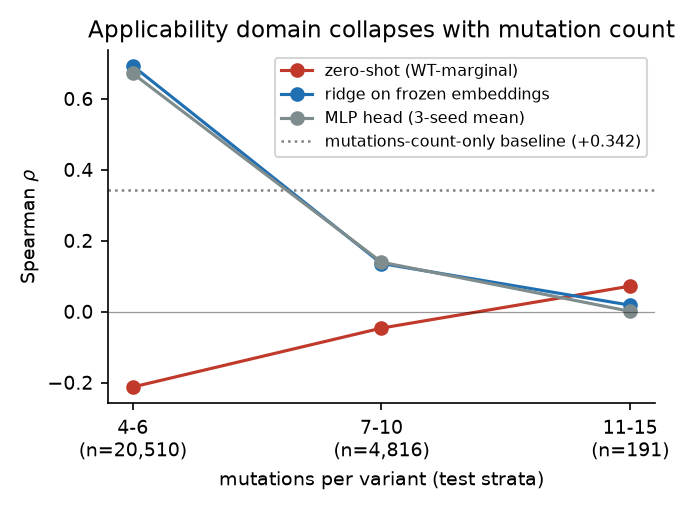
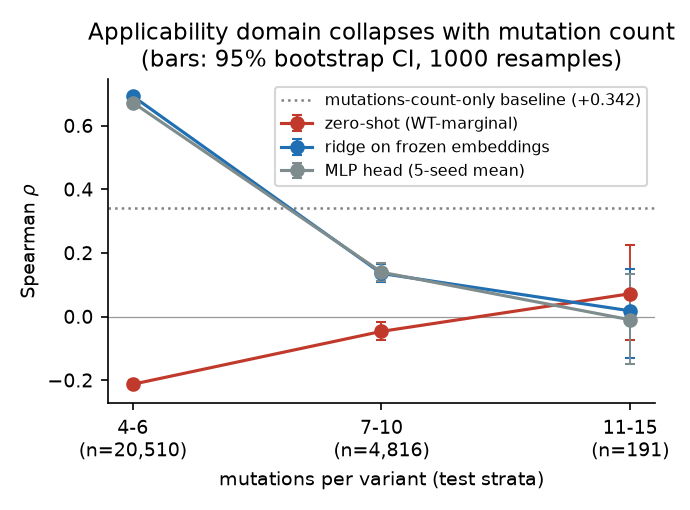
E2: 5 MLP seeds + per-stratum bootstrap CIs
- analyze.py: seeds 0-4 (mlp_mean3seed -> mlp_mean5seed, mean +0.6166);
  by_mutation_count rows gain zero_shot/ridge/mlp 95% bootstrap CIs;
  ci_protocol recorded in metrics.json and stated in report.md
- make_figures.py: fig2 draws CI error bars, legend says 5-seed mean
- README: strata row now shows CIs (11-15 ridge CI spans 0); seeds 0-2
  reproduce the old per-seed Spearman to 4 decimals

diff --git a/src/analyze.py b/src/analyze.py
@@ -8,7 +8,7 @@ Models compared on the TAPE fluorescence test split (25,517 variants, length 237
   null_nmut      predict -(number of mutations) -- "more mutations, less fluorescence"
   zero_shot      ESM2 WT-marginal log-likelihood ratio, no training at all
   ridge          linear head on frozen ESM2 mean-pooled embeddings
-  mlp            ~~~~ 2-layer head, 3 seeds ~~~~
+  mlp            ~~~~ 2-layer head, 5 seeds ~~~~
 
 No number here is hard-coded: every figure is computed from the arrays on disk.
 """
@@ -103,7 +103,10 @@ def main() -> None:
     te, Xte, zs_te = load("test")
     ytr, yva, yte = tr["log_fluor"].values, va["log_fluor"].values, te["log_fluor"].values
 
-    res: dict = {"n_train": len(tr), "n_valid": len(va), "n_test": len(te)}
+    res: dict = {"n_train": len(tr), "n_valid": len(va), "n_test": len(te),
+                 "ci_protocol": {"method": "bootstrap percentile 95% CI",
+                                 "n_boot": 1000, "rng_seed": 0,
+                                 "note": "same protocol for headline, subset and per-stratum CIs"}}
     print(f"train {len(tr)}  valid {len(va)}  test {len(te)}  dim={Xtr.shape[1]}")
 
     # ---- baselines ----------------------------------------------------------
@@ -126,8 +129,8 @@ def main() -> None:
     res["ridge_valid_spearman"] = round(float(r_valid), 4)
     score("ridge", model.predict(Xte), yte, res)
 
-    # ---- MLP head, 3 seeds --------------------------------------------------
-    seeds = [0, 1, 2]
+    # ---- MLP head, 5 seeds --------------------------------------------------
+    seeds = [0, 1, 2, 3, 4]
     preds, infos = [], []
     for s in seeds:
         p, info = mlp_head(Xtr, ytr, Xte, s)
@@ -135,30 +138,33 @@ def main() -> None:
         infos.append(info)
         score(f"mlp_seed{s}", p, yte, res)
     pm = np.mean(preds, 0)
-    score("mlp_mean3seed", pm, yte, res)
+    score("mlp_mean5seed", pm, yte, res)
     res["mlp_ensemble"] = {"seeds": seeds, "per_seed_spearman": [res[f"mlp_seed{s}"]["spearman"] for s in seeds],
                            "train_seconds": [i["seconds"] for i in infos],
                            "peak_gpu_MiB": [i["peak_gpu_MiB"] for i in infos]}
     spread = max(res[f"mlp_seed{s}"]["spearman"] for s in seeds) - min(res[f"mlp_seed{s}"]["spearman"] for s in seeds)
     res["mlp_ensemble"]["seed_spread"] = round(float(spread), 4)
 
-    # ---- where zero-shot fails: by mutation count --------------------------
+    # ---- where zero-shot fails: by mutation count, with per-stratum CIs -----
     bins = [(1, 1), (2, 3), (4, 6), (7, 10), (11, 15)]
+    ridge_te = model.predict(Xte)
     rows = []
     for lo, hi in bins:
         m = (te["num_mutations"] >= lo) & (te["num_mutations"] <= hi)
         if m.sum() < 30:
             continue
-        rows.append({
-            "mutations": f"{lo}-{hi}", "n": int(m.sum()),
-            "zero_shot": round(float(spearmanr(zs_te[m], yte[m]).statistic), 4),
-            "ridge": round(float(spearmanr(model.predict(Xte[m]), yte[m]).statistic), 4),
-            "mlp": round(float(spearmanr(pm[m], yte[m]).statistic), 4),
-        })
+        row = {"mutations": f"{lo}-{hi}", "n": int(m.sum())}
+        for key, pred in [("zero_shot", zs_te[m]), ("ridge", ridge_te[m]), ("mlp", pm[m])]:
+            rho = float(spearmanr(pred, yte[m]).statistic)
+            c_lo, c_hi = boot_spearman(pred, yte[m])
+            row[key] = round(rho, 4)
+            row[f"{key}_ci95"] = [round(c_lo, 4), round(c_hi, 4)]
+        rows.append(row)
     res["by_mutation_count"] = rows
-    print("\nby mutation count:")
+    print("\nby mutation count (95% bootstrap CI):")
     for r in rows:
-        print(f"  {r['mutations']:>6} n={r['n']:5d}  zs={r['zero_shot']:+.3f}  ridge={r['ridge']:+.3f}  mlp={r['mlp']:+.3f}")
+        print(f"  {r['mutations']:>6} n={r['n']:5d}  zs={r['zero_shot']:+.3f}{r['zero_shot_ci95']}  "
+              f"ridge={r['ridge']:+.3f}{r['ridge_ci95']}  mlp={r['mlp']:+.3f}{r['mlp_ci95']}")
 
     # ---- zero-shot on a common subset, two scoring conventions -------------
     masked_path = EMB / "test_score_maskedmarginal_subset.npy"
@@ -184,16 +190,18 @@ def main() -> None:
         "# ESM2 on TAPE fluorescence (FLU-S): zero-shot vs fine-tuned", "",
         f"- train {len(tr)} / valid {len(va)} / test {len(te)} variants, length 237, wild type = consensus",
         f"- test split is the extrapolation split: mean {te['num_mutations'].mean():.2f} mutations, max {int(te['num_mutations'].max())}",
+        "- CI protocol: 95% bootstrap percentile, 1000 resamples, rng seed 0 — identical protocol in the "
+        "headline table, the subset table and the per-stratum table below",
         "", "| model | Spearman | 95% CI (bootstrap, 1000) | RMSE | n |", "|---|---|---|---|---|",
     ]
-    order = ["null_mean", "null_nmut", "zero_shot", "ridge", "mlp_mean3seed"]
+    order = ["null_mean", "null_nmut", "zero_shot", "ridge", "mlp_mean5seed"]
     for k in order:
         v = res[k]
         if v.get("spearman") is None:
             lines.append(f"| {k} | undefined (constant) | — | {v['rmse']:.4f} | {v['n']} |")
         else:
             lines.append(f"| {k} | {v['spearman']:+.4f} | [{v['ci95'][0]:+.4f}, {v['ci95'][1]:+.4f}] | {v['rmse']:.4f} | {v['n']} |")
-    lines += ["", f"MLP: 3 seeds, per-seed Spearman {res['mlp_ensemble']['per_seed_spearman']}, "
+    lines += ["", f"MLP: {len(seeds)} seeds, per-seed Spearman {res['mlp_ensemble']['per_seed_spearman']}, "
                   f"seed spread {res['mlp_ensemble']['seed_spread']}", ""]
 
     if "zero_shot_subset" in res:
@@ -202,16 +210,19 @@ def main() -> None:
         for k, label in [("zero_shot_wt_subset", "WT-marginal (biased: mutant is its own context)"),
                          ("zero_shot_masked_subset", "masked-marginal (position masked before scoring)"),
                          ("ridge_subset", "ridge on frozen embeddings (reference)"),
-                         ("mlp_subset", "MLP 3-seed mean (reference)")]:
+                         ("mlp_subset", "MLP 5-seed mean (reference)")]:
             v = res[k]
             lines.append(f"| {label} | {v['spearman']:+.4f} | [{v['ci95'][0]:+.4f}, {v['ci95'][1]:+.4f}] |")
         lines += ["", f"Correlation between the two zero-shot scores themselves: "
                       f"{res['zero_shot_subset']['wt_vs_masked_spearman_between_scorers']:+.4f}", ""]
 
-    lines += ["## Spearman by number of mutations in the variant", "",
+    lines += ["## Spearman by number of mutations in the variant (95% bootstrap CI in brackets)", "",
               "| mutations | n | zero-shot | ridge | mlp |", "|---|---|---|---|---|"]
     for r in rows:
-        lines.append(f"| {r['mutations']} | {r['n']} | {r['zero_shot']:+.3f} | {r['ridge']:+.3f} | {r['mlp']:+.3f} |")
+        lines.append(f"| {r['mutations']} | {r['n']} | "
+                     f"{r['zero_shot']:+.3f} [{r['zero_shot_ci95'][0]:+.3f}, {r['zero_shot_ci95'][1]:+.3f}] | "
+                     f"{r['ridge']:+.3f} [{r['ridge_ci95'][0]:+.3f}, {r['ridge_ci95'][1]:+.3f}] | "
+                     f"{r['mlp']:+.3f} [{r['mlp_ci95'][0]:+.3f}, {r['mlp_ci95'][1]:+.3f}] |")
     (OUT / "report.md").write_text("\n".join(lines) + "\n", encoding="utf-8")
     print(f"\nwrote {OUT/'metrics.json'} and {OUT/'report.md'}")
 

diff --git a/src/make_figures.py b/src/make_figures.py
@@ -83,13 +83,17 @@ def fig2_ad_curve():
     fig, ax = plt.subplots(figsize=(4.6, 3.4))
     for key, lab, col in [("zero_shot", "zero-shot (WT-marginal)", C_ZS),
                           ("ridge", "ridge on frozen embeddings", C_RIDGE),
-                          ("mlp", "MLP head (3-seed mean)", C_MLP)]:
-        ax.plot(x, [r[key] for r in rows], marker="o", lw=1.5, color=col, label=lab)
+                          ("mlp", "MLP head (5-seed mean)", C_MLP)]:
+        y = np.array([r[key] for r in rows])
+        ci = np.array([r[f"{key}_ci95"] for r in rows])
+        ax.errorbar(x, y, yerr=[y - ci[:, 0], ci[:, 1] - y], fmt="-o", lw=1.5,
+                    capsize=2.5, elinewidth=0.9, color=col, label=lab)
     ax.axhline(0, color="k", lw=0.6, alpha=0.4)
     ax.axhline(MET["null_nmut"]["spearman"], color="gray", ls=":", lw=1.2,
                label=f"mutations-count-only baseline ({MET['null_nmut']['spearman']:+.3f})")
     ax.set(xticks=x, xlabel="mutations per variant (test strata)", ylabel="Spearman $\\rho$",
-           title="Applicability domain collapses with mutation count", **{"xticklabels": labels})
+           title="Applicability domain collapses with mutation count\n(bars: 95% bootstrap CI, 1000 resamples)",
+           **{"xticklabels": labels})
     ax.legend(fontsize=7.5, loc="upper right")
     fig.tight_layout()
     fig.savefig(OUT / "fig2_applicability_domain.png")

diff --git a/results/report.md b/results/report.md
@@ -2,6 +2,7 @@
 
 - train 20963 / valid 5235 / test 25517 variants, length 237, wild type = consensus
 - test split is the extrapolation split: mean 5.37 mutations, max 15
+- CI protocol: 95% bootstrap percentile, 1000 resamples, rng seed 0 — identical protocol in the headline table, the subset table and the per-stratum table below
 
 | model | Spearman | 95% CI (bootstrap, 1000) | RMSE | n |
 |---|---|---|---|---|
@@ -9,9 +10,9 @@
 | null_nmut | +0.3416 | [+0.3302, +0.3524] | 7.6178 | 25517 |
 | zero_shot | -0.3036 | [-0.3144, -0.2924] | 16.2810 | 25517 |
 | ridge | +0.6297 | [+0.6208, +0.6380] | 0.9342 | 25517 |
-| mlp_mean3seed | +0.6150 | [+0.6063, +0.6230] | 0.8453 | 25517 |
+| mlp_mean5seed | +0.6166 | [+0.6080, +0.6246] | 0.8404 | 25517 |
 
-MLP: 3 seeds, per-seed Spearman [0.611, 0.6108, 0.6046], seed spread 0.0064
+MLP: 5 seeds, per-seed Spearman [0.611, 0.6108, 0.6046, 0.612, 0.6057], seed spread 0.0074
 
 ## Two zero-shot scoring conventions, on the same 5,000-variant subset
 
@@ -20,14 +21,14 @@ MLP: 3 seeds, per-seed Spearman [0.611, 0.6108, 0.6046], seed spread 0.0064
 | WT-marginal (biased: mutant is its own context) | -0.3187 | [-0.3435, -0.2936] |
 | masked-marginal (position masked before scoring) | +0.0310 | [+0.0014, +0.0574] |
 | ridge on frozen embeddings (reference) | +0.6331 | [+0.6130, +0.6517] |
-| MLP 3-seed mean (reference) | +0.6155 | [+0.5951, +0.6343] |
+| MLP 5-seed mean (reference) | +0.6175 | [+0.5976, +0.6365] |
 
 Correlation between the two zero-shot scores themselves: +0.3093
 
-## Spearman by number of mutations in the variant
+## Spearman by number of mutations in the variant (95% bootstrap CI in brackets)
 
 | mutations | n | zero-shot | ridge | mlp |
 |---|---|---|---|---|
-| 4-6 | 20510 | -0.212 | +0.693 | +0.671 |
-| 7-10 | 4816 | -0.046 | +0.136 | +0.140 |
-| 11-15 | 191 | +0.072 | +0.018 | +0.001 |
+| 4-6 | 20510 | -0.212 [-0.225, -0.200] | +0.693 [+0.685, +0.700] | +0.673 [+0.665, +0.680] |
+| 7-10 | 4816 | -0.046 [-0.075, -0.018] | +0.136 [+0.107, +0.164] | +0.140 [+0.114, +0.168] |
+| 11-15 | 191 | +0.072 [-0.074, +0.225] | +0.018 [-0.130, +0.151] | -0.010 [-0.149, +0.133] |
